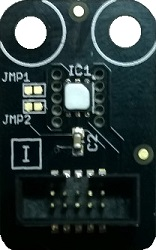
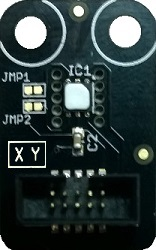
Fixed some names, pins, and image for TempHumidSI70.

Changed region(s): [[0.0513, 0.532, 0.3077, 0.7]]

diff --git a/Modules/GHIElectronics/TempHumidSI70/TempHumidSI70_43/TempHumidSI70_43.cs b/Modules/GHIElectronics/TempHumidSI70/TempHumidSI70_43/TempHumidSI70_43.cs
@@ -23,9 +23,9 @@ namespace Gadgeteer.Modules.GHIElectronics
         public TempHumidSI70(int socketNumber)
         {
             Socket socket = Socket.GetSocket(socketNumber, true, this, null);
-            socket.EnsureTypeIsSupported('I', this);
+            socket.EnsureTypeIsSupported(new char[] { 'X', 'Y' }, this);
 
-            this.i2c = new GTI.SoftwareI2CBus(socket, Socket.Pin.Eight, Socket.Pin.Nine, TempHumidSI70.I2C_ADDRESS, 400, this);
+            this.i2c = new GTI.SoftwareI2CBus(socket, Socket.Pin.Five, Socket.Pin.Four, TempHumidSI70.I2C_ADDRESS, 400, this);
 
             this.writeBuffer1 = new byte[1] { TempHumidSI70.MEASURE_HUMIDITY_HOLD };
             this.writeBuffer2 = new byte[1] { TempHumidSI70.READ_TEMP_FROM_PREVIOUS };

diff --git a/Modules/GHIElectronics/TempHumidSI70/TempHumidSI70_Tester/Program.cs b/Modules/GHIElectronics/TempHumidSI70/TempHumidSI70_Tester/Program.cs
@@ -13,7 +13,7 @@ namespace TempHumidSI70_Tester
 
         void ProgramStarted()
         {
-            this.displayT43.SimpleGraphics.DisplayText("TempHumidity Tester", Resources.GetFont(Resources.FontResources.NinaB), GT.Color.White, 0, 0);
+            this.displayT43.SimpleGraphics.DisplayText("TempHumidSI70 Tester", Resources.GetFont(Resources.FontResources.NinaB), GT.Color.White, 0, 0);
             Thread.Sleep(2000);
 
             this.font = Resources.GetFont(Resources.FontResources.NinaB);
